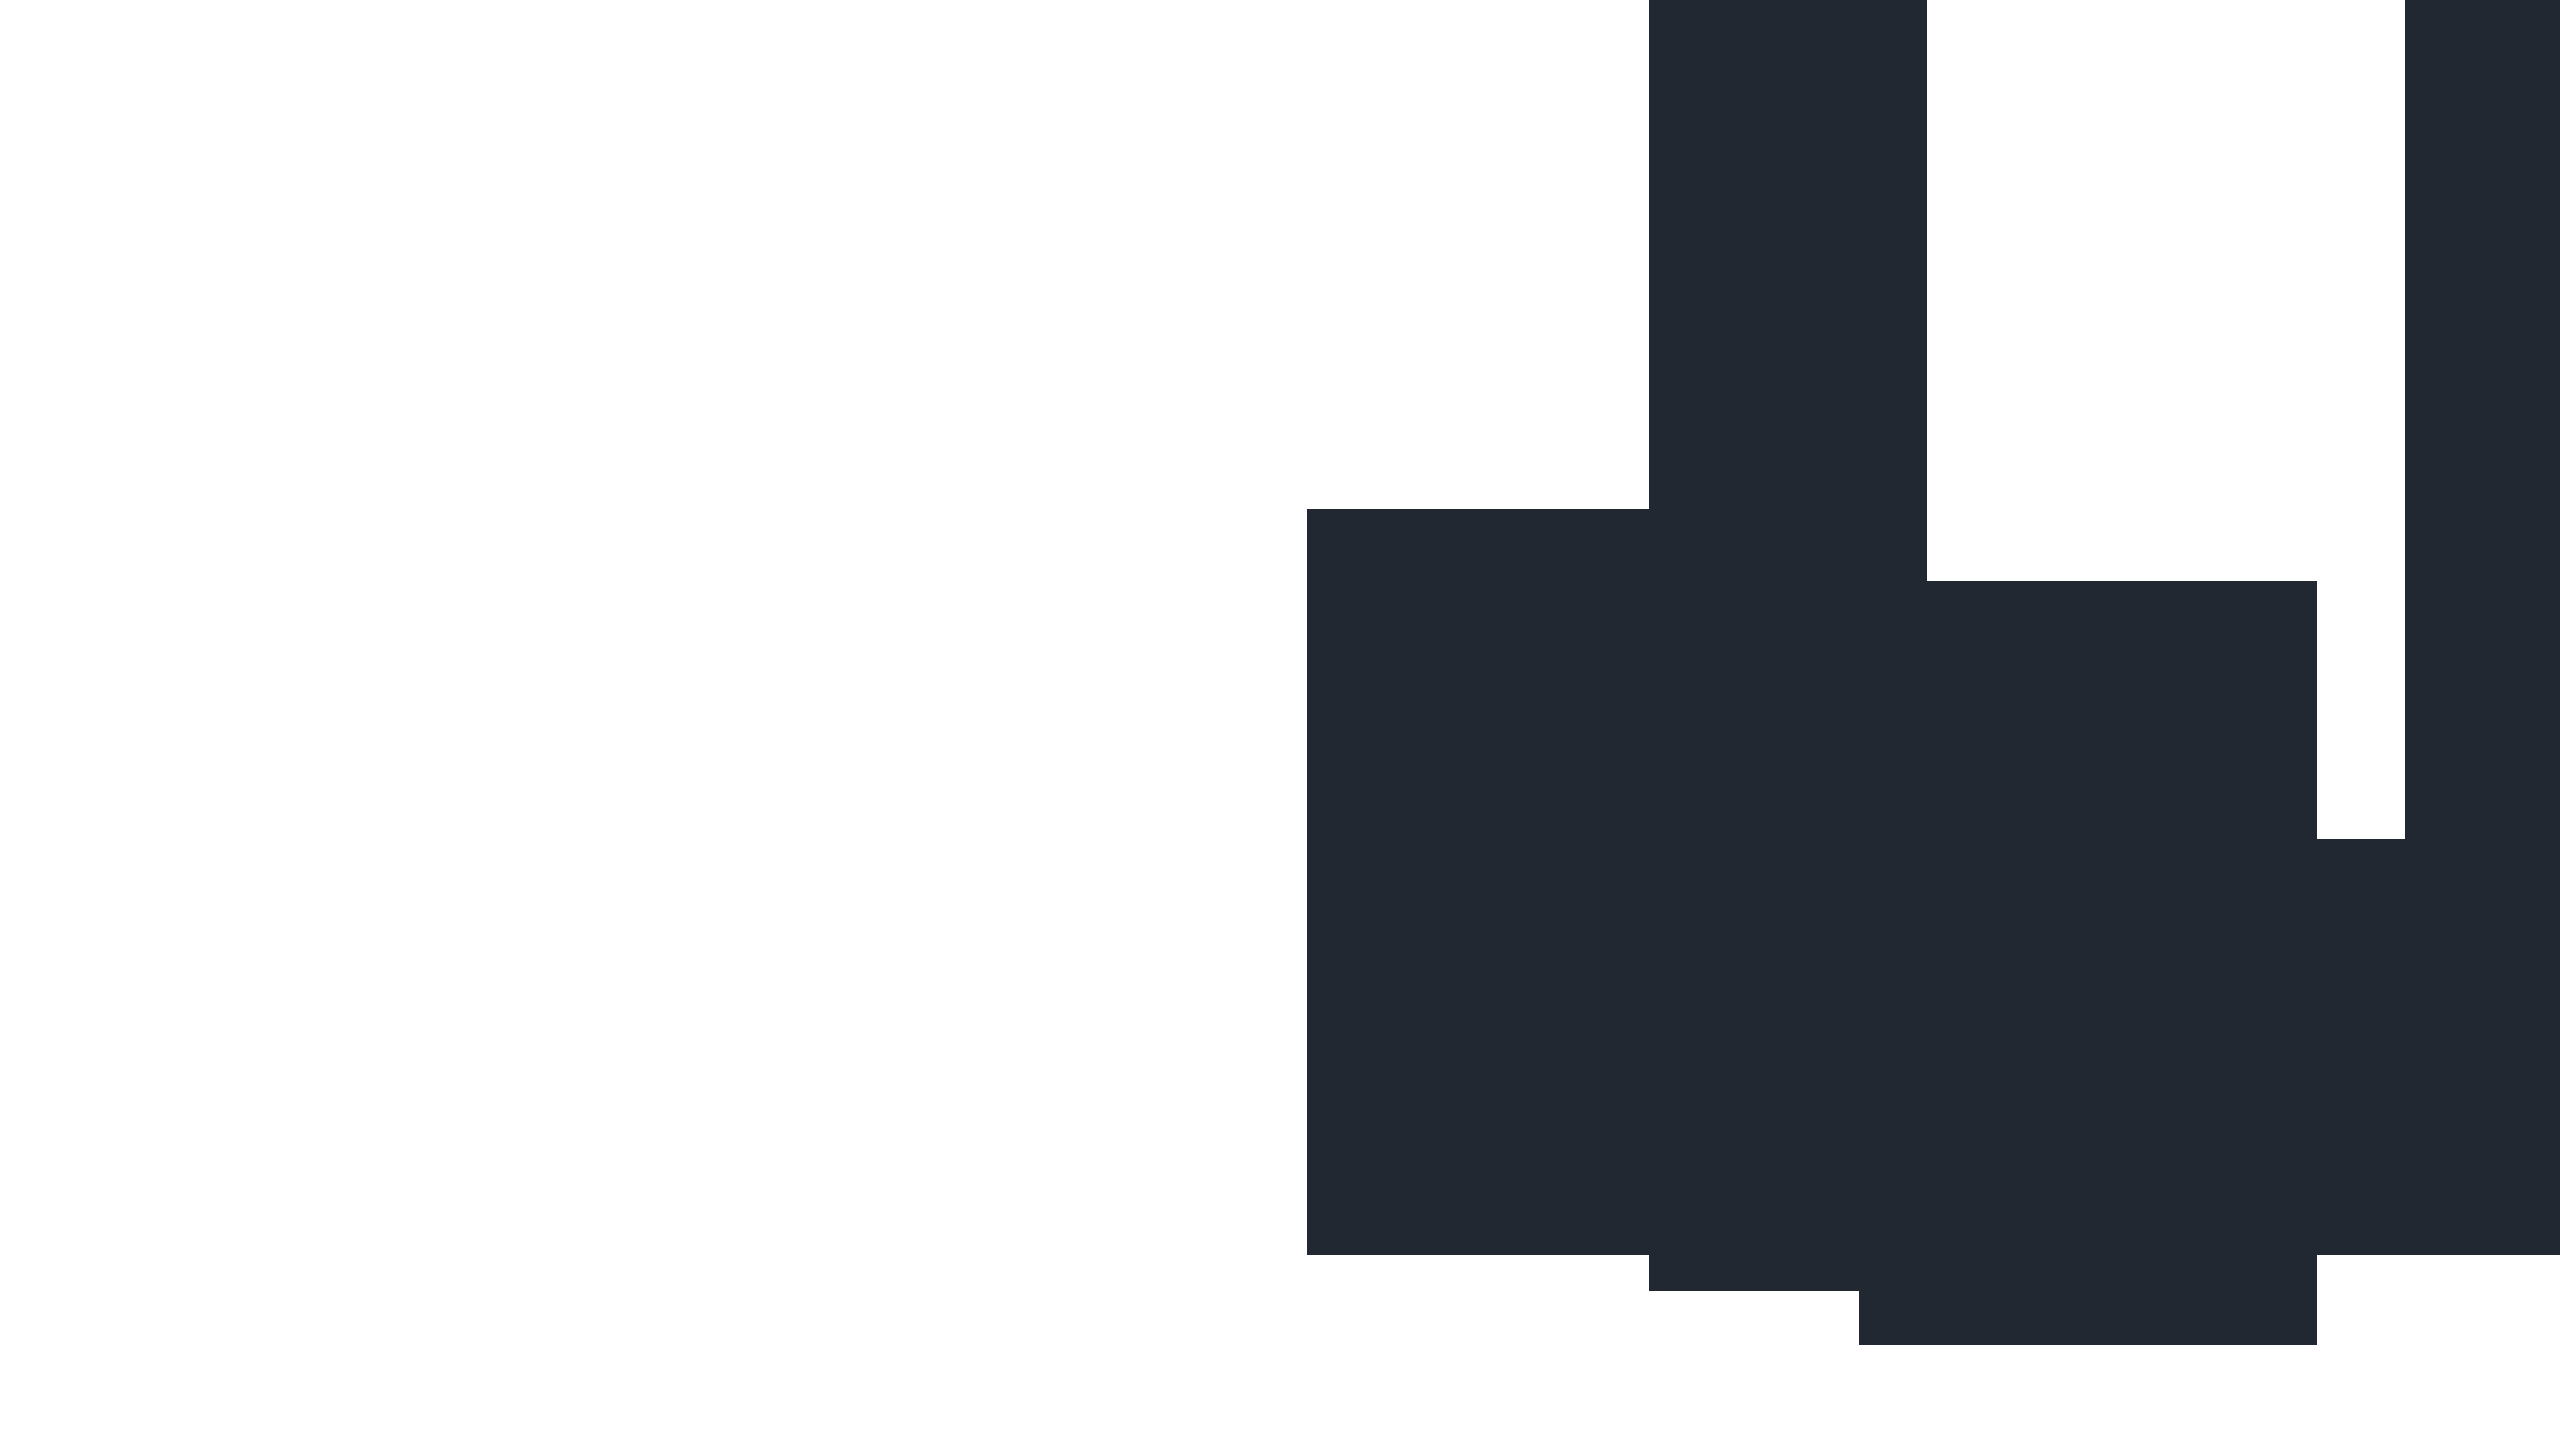
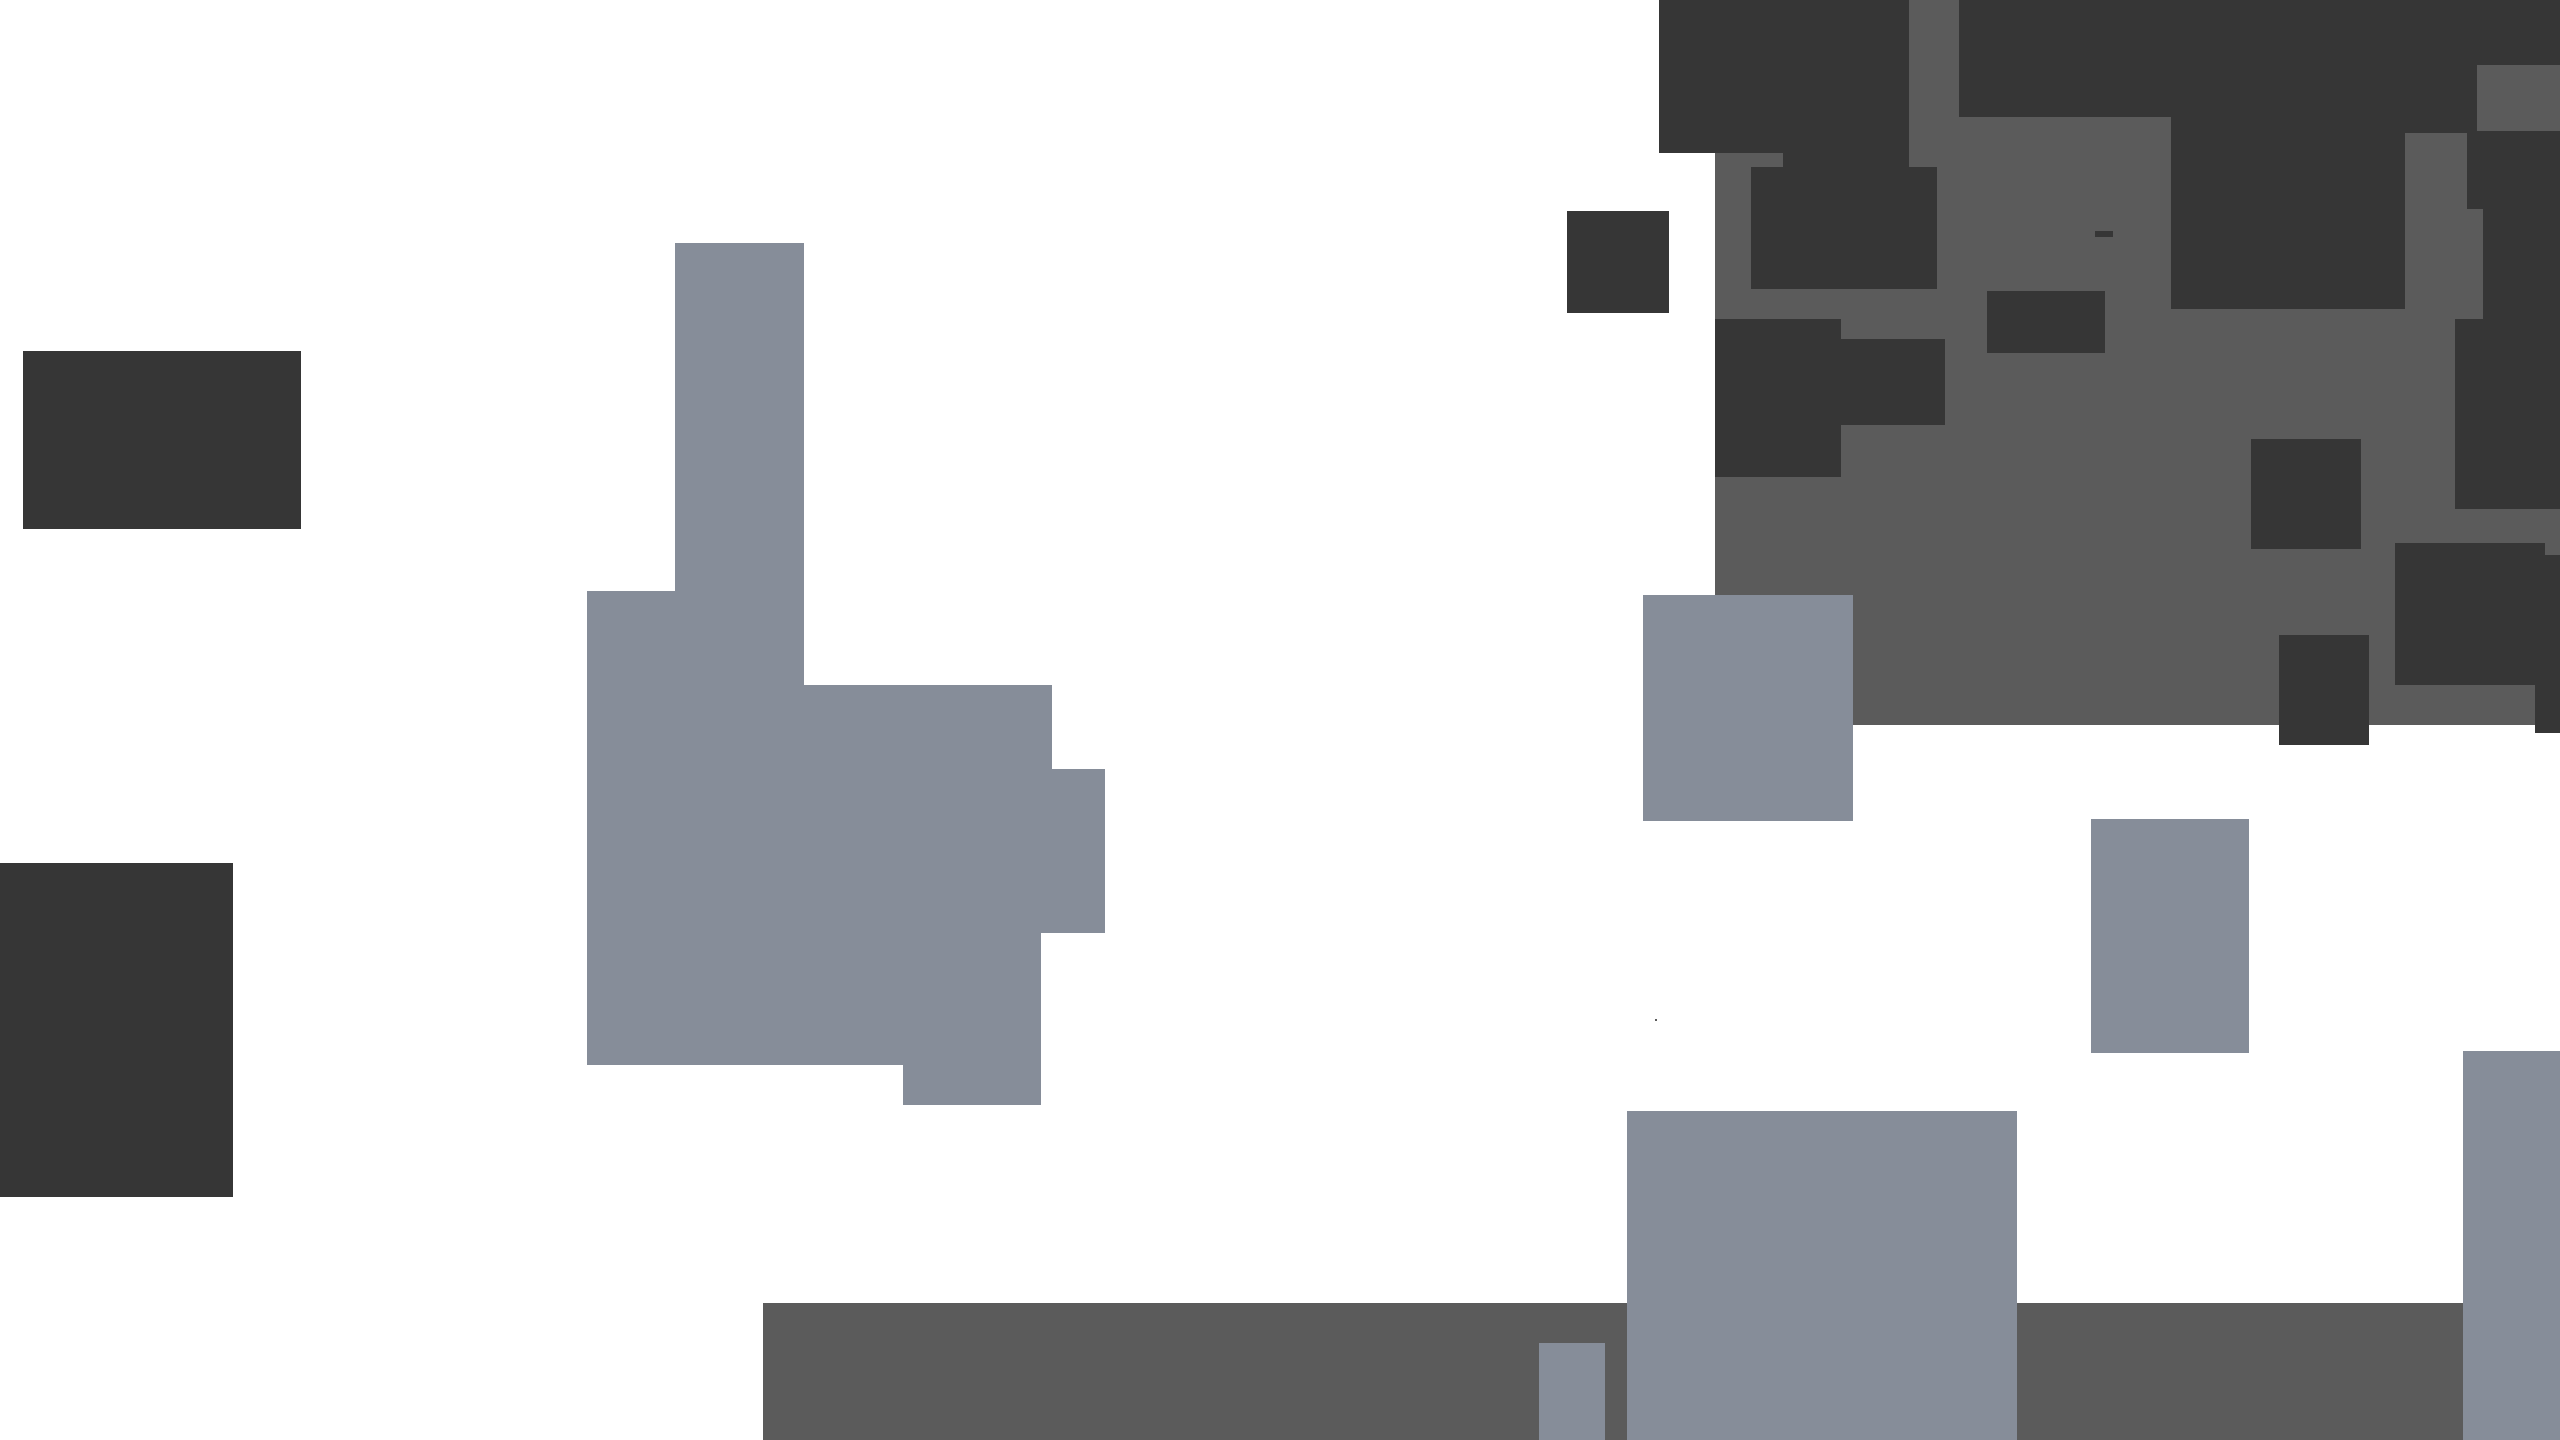
zzz

diff --git a/Manzo/Manzo/Game/Mode1.cpp b/Manzo/Manzo/Game/Mode1.cpp
@@ -53,7 +53,7 @@ void Mode1::Load() {
     GetGSComponent<CS230::GameObjectManager>()->Add(ship_ptr);
 
     //// camera
-    Math::rect Boundary({ -640,-540 }, { 640,540 });
+    Math::rect Boundary({ -1280,-540 }, { 1280,540 });
     camera = new CS230::Cam();
     AddGSComponent(camera);
     camera->SetLimit(Boundary);
@@ -79,9 +79,9 @@ void Mode1::Load() {
     GetGSComponent<Background>()->Add("assets/images/background/bg3.png", 0.5f);
     GetGSComponent<Background>()->Add("assets/images/background/bg4.png", 0.6f);
     GetGSComponent<Background>()->Add("assets/images/background/bg5.png", 0.7f);*/
-    GetGSComponent<Background>()->Add("assets/images/background/bg_rock3.png", 0.4f);
+    GetGSComponent<Background>()->Add("assets/images/background/bg_rock4.png", 0.4f);/*
     GetGSComponent<Background>()->Add("assets/images/background/bg_rock2.png", 0.5f);
-    GetGSComponent<Background>()->Add("assets/images/background/bg_rock1.png", 0.7f);
+    GetGSComponent<Background>()->Add("assets/images/background/bg_rock1.png", 0.7f);*/
 
 
     //testing fish
